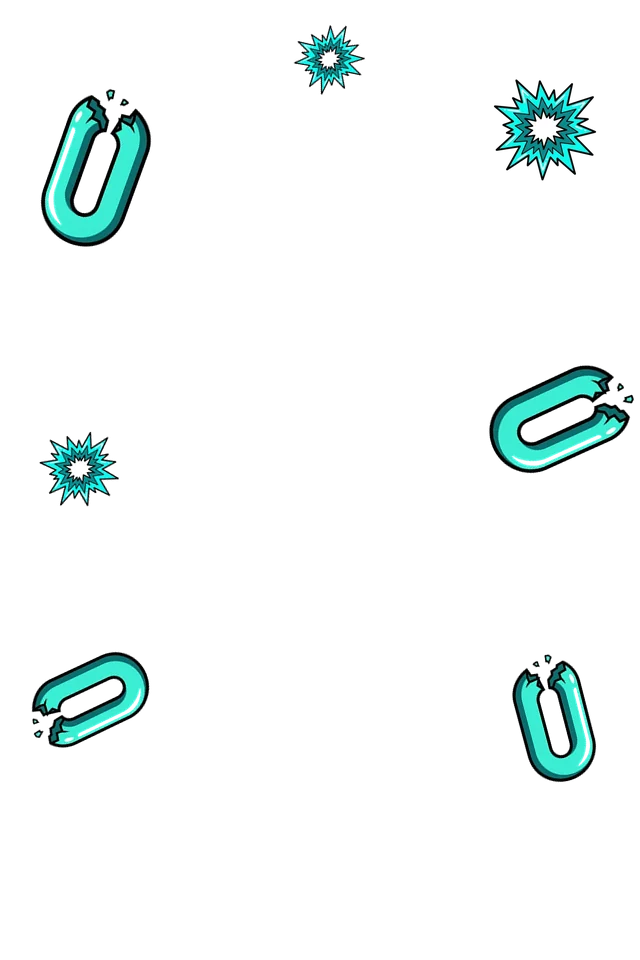
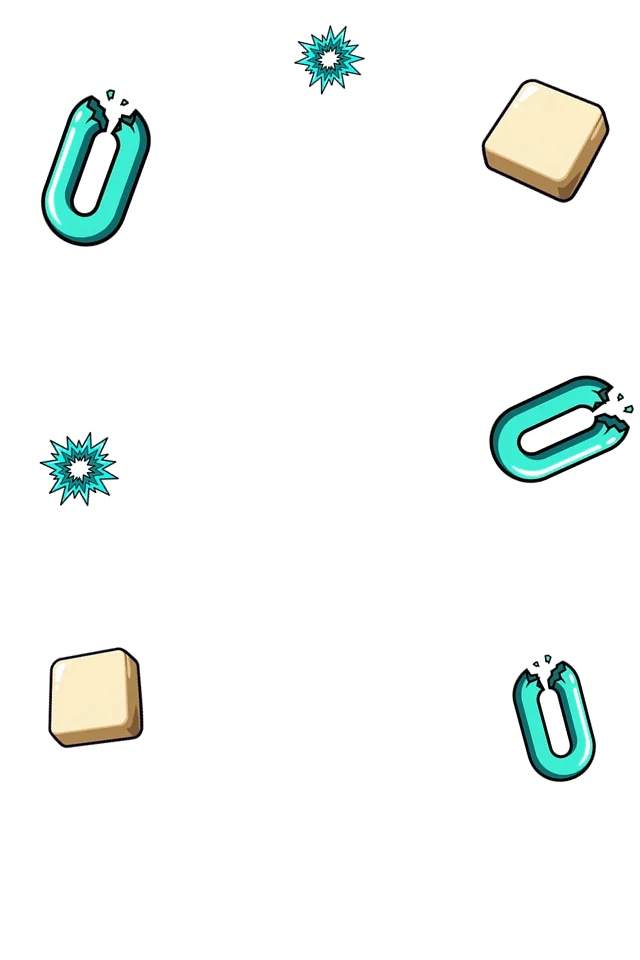
feat(cards): ChatGPT FUSE backdrop + tile, spark, smoke (one image each)
The FUSE storeroom is repainted in ChatGPT against the WORD BOMB / CHAIN
cards so it matches their line weight. New single-image pieces: a blank
letter tile (ChatGPT) for both hover FX layers, a fuse spark and a smoke
puff (Gemini) for the FUSE act.

Changed region(s): [[0.75, 0.375, 1.0, 0.5], [0.75, 0.0625, 0.9688, 0.2188], [0.0312, 0.6562, 0.25, 0.7812]]

diff --git a/src/gameData.js b/src/gameData.js
@@ -130,13 +130,15 @@ const FUSE_GAME = {
   id: 'fuse',
   artKey: 'FuseArt',
   // Andy oct24: the painted, COMPONENT card — the fireworks storeroom, the sneaky firecracker (shh), hover FX, and
-  // PARTS for its act (ACTS.fuse): a tiptoe two-step and the fuse FLARES. The flash rides the hero's frame (onHero),
-  // placed on its fuse tip.
+  // PARTS for its act (ACTS.fuse): a tiptoe two-step, the fuse FLARES (flash + spark) and coughs a smoke puff. The
+  // pieces ride the hero's frame (onHero), placed on its fuse tip.
   artLayers: {
     bg: '/cards/fu-bg.webp', hero: '/cards/fu-hero.webp', fx: '/cards/fu-fx.webp', heroY: '-4%', heroScale: 0.66,
     act: 'fuse',
     parts: [
       { id: 'flash', src: '/cards/fu-flash.webp', x: 72.6, y: 6, w: 44, onHero: true },
+      { id: 'spark', src: '/cards/fu-spark.webp', x: 73, y: 5, w: 30, onHero: true },
+      { id: 'smoke', src: '/cards/fu-smoke.webp', x: 68, y: 9, w: 24, onHero: true },
     ],
   },
   name: 'FUSE',

diff --git a/src/components/cardLayers/cardActs.js b/src/components/cardLayers/cardActs.js
@@ -48,7 +48,7 @@ export const ACTS = {
     { el: 'link', at: 300, ms: 760, ease: EASE_OUT, frames: flingFrames(-170, 40, -260) },
     { el: 'link2', at: 340, ms: 780, ease: EASE_OUT, frames: flingFrames(170, 70, 240) },
   ],
-  // FUSE — the firecracker SNEAKS: a tiptoe two-step in place, the fuse FLARES.
+  // FUSE — the firecracker SNEAKS: a tiptoe two-step in place, the fuse FLARES and coughs a smoke puff.
   fuse: [
     { el: 'hero', at: 0, ms: 900, ease: 'ease-in-out', frames: [
       { transform: 'translate(0,0) rotate(0deg)' },
@@ -59,6 +59,8 @@ export const ACTS = {
       { transform: 'translate(0,0) rotate(0deg)' },
     ] },
     { el: 'flash', at: 340, ms: 560, ease: EASE_POP, frames: burstFrames(1.15, 40) },
+    { el: 'spark', at: 380, ms: 520, ease: EASE_POP, frames: burstFrames(1.3, 90) },
+    { el: 'smoke', at: 520, ms: 900, ease: EASE_OUT, frames: flingFrames(-40, -120, -25) },
   ],
 };
 

diff --git a/CLAUDE.md b/CLAUDE.md
@@ -182,6 +182,6 @@ The menu has NO idle/ambient loops (the old tagline sway, section-label breathe,
   - BEAT: `html[data-beat='true'] .hp-rail .kb-rico` — a small bounce, staggered UPGRADES → GEARS → REBIRTH → STATS by delay, delay + duration ≤ 120 ms so it finishes inside the beat's 120 ms window (like title-beat-pop). Finite; will-change only while the beat attribute is on.
   - DOT NUDGE: a tile with an actionable dot nudges its icon ONCE every ~8 s (`NUDGE_EVERY_MS`, MenuNav.jsx `useDotNudge`) — ONE shared setTimeout for the rail, a finite WAAPI one-shot per dotted tile (staggered), will-change set for the run and cleared on finish; skipped on a hidden tab. No tile, no timer of its own; no CSS infinite.
   - The icons are OPTICALLY centred (`translate` by each icon's measured ink offset — the `translate` property, so it composes with the motion transforms). e2e/rail-centre.spec.js holds label / icon / number to 1px of the tile centre.
-- SANCTIONED CARD ACTS (Andy oct24 "the idea of components ABSOLUTELY saved the game card designs"): a painted mode card is LAYERS (`components/cardLayers/CardLayers.jsx`: backdrop / under-parts / hover FX / hero ACTOR / on-hero parts). CHAIN + FUSE carry PARTS (gameData `artLayers.parts`, card %) that are invisible at rest and only appear in the card's ACT (`cardActs.js` ACTS — CHAIN whips its lasso + vault flash + two broken links fly; FUSE tiptoes + its fuse flares). Every part is its OWN painted image (one subject per generation, judged alone — never cut from a multi-item sheet). ONE shared setTimeout for the grid plays ONE on-screen, unlocked card every 3.4 s, each card ≤ once per 8.2 s; finite WAAPI transform/opacity, will-change only for the run, hidden tab skipped, REDUCE MOTION never started. New painted cards add an act + parts, never a CSS loop.
+- SANCTIONED CARD ACTS (Andy oct24 "the idea of components ABSOLUTELY saved the game card designs"): a painted mode card is LAYERS (`components/cardLayers/CardLayers.jsx`: backdrop / under-parts / hover FX / hero ACTOR / on-hero parts). CHAIN + FUSE carry PARTS (gameData `artLayers.parts`, card %) that are invisible at rest and only appear in the card's ACT (`cardActs.js` ACTS — CHAIN whips its lasso + vault flash + two broken links fly; FUSE tiptoes + its fuse flares + a smoke puff). Every part is its OWN painted image (one subject per generation, judged alone — never cut from a multi-item sheet). ONE shared setTimeout for the grid plays ONE on-screen, unlocked card every 3.4 s, each card ≤ once per 8.2 s; finite WAAPI transform/opacity, will-change only for the run, hidden tab skipped, REDUCE MOTION never started. New painted cards add an act + parts, never a CSS loop.
 - DOCUMENTED FLAT-RULE EXCEPTION: .homepage-beat-glow is a pink radial-gradient pulse — an intentional, menu-frame-scoped exception to the "flat colors only, no gradients" rule. Opacity-only, beat-driven, reduced-motion-off.
 - DOCUMENTED FLAT-RULE EXCEPTION: the RARE-GEAR GLOW (`GearFx.jsx` / `.gfx*`, Andy oct9 "clash royale cards … they just feel so satisfying") — a tier-colour aura (+ sparkle motes) behind EVERY EPIC+ gear card, owned or locked (Andy oct9 22:56 "the glow should be everywhere then (not just whats found)" — a locked tile glows its tier colour so players see what they're chasing): the YOUR GEAR slot, the EQUIP screen, the INDEX tiles, the GEAR SHEET and the ROLL screen (reel cells, reveal card, stats-extension plate) ONLY. The blur is BAKED into `public/fx/gear-aura*.png` (a 9-slice border-image — never a CSS filter / blurred box-shadow); motion is finite WAAPI opacity (aura) / transform+opacity (motes) on one shared scheduler that staggers hosts (≤1 starts a breath per 700 ms tick, each host ≤ once per 4.2 s, off-screen skipped); the reel's passing cells are a still aura (`live={false}`); reduced motion = still aura, no motes. THE RARITY LADDER (gear UI v3, Andy oct9 "mythic and secret should be even greater"): EPIC aura + 2 motes < LEGENDARY wider aura + 4 motes < MYTHIC two auras (pink + cyan) + 8 big two-colour motes + the `public/fx/frame-mythic.svg` frame variant << SECRET three baked rainbow colourings swapped each breath + a baked RGB-split GLITCH plate (`gear-aura-secret-glitch.png`, a transform jitter) + an ORBITING ring of 8 rainbow motes (one finite lap per breath; its ellipse measured once on mount) + the `frame-secret.svg` variant; the rarity word is a TierBanner (markCard/TierBanner.jsx, inline-SVG ribbon) on the sheet and the reveal, and the card's rarity plate climbs the same ladder (CardFrame). THE YOUR GEAR SHOWCASE (gear UI v3, Andy oct9 "make the menu 'your gear' animation even more attractive (for legendary ones)") is part of this exception and is the menu's ONE sanctioned showcase (the MENU MOTION LAW otherwise holds): `gearShowcase.js` (lazy) runs once every 6.5–8 s on the worn EPIC+ gear — LEGENDARY+: aura flare + radial mote burst (GearFx `gfx:flare`), a flat tier-colour face flash, the reveal's burst-ring asset behind the glyph, the glyph pop (secret: a full spin), the sheen sweep, one stat-number punch; EPIC: a lighter glyph pop + number punch only. One setTimeout chain per slot, finite WAAPI transform/opacity one-shots, will-change only for the run, hidden tab skipped; reduced motion = never started (static slot). Do not spread it to other UI.
